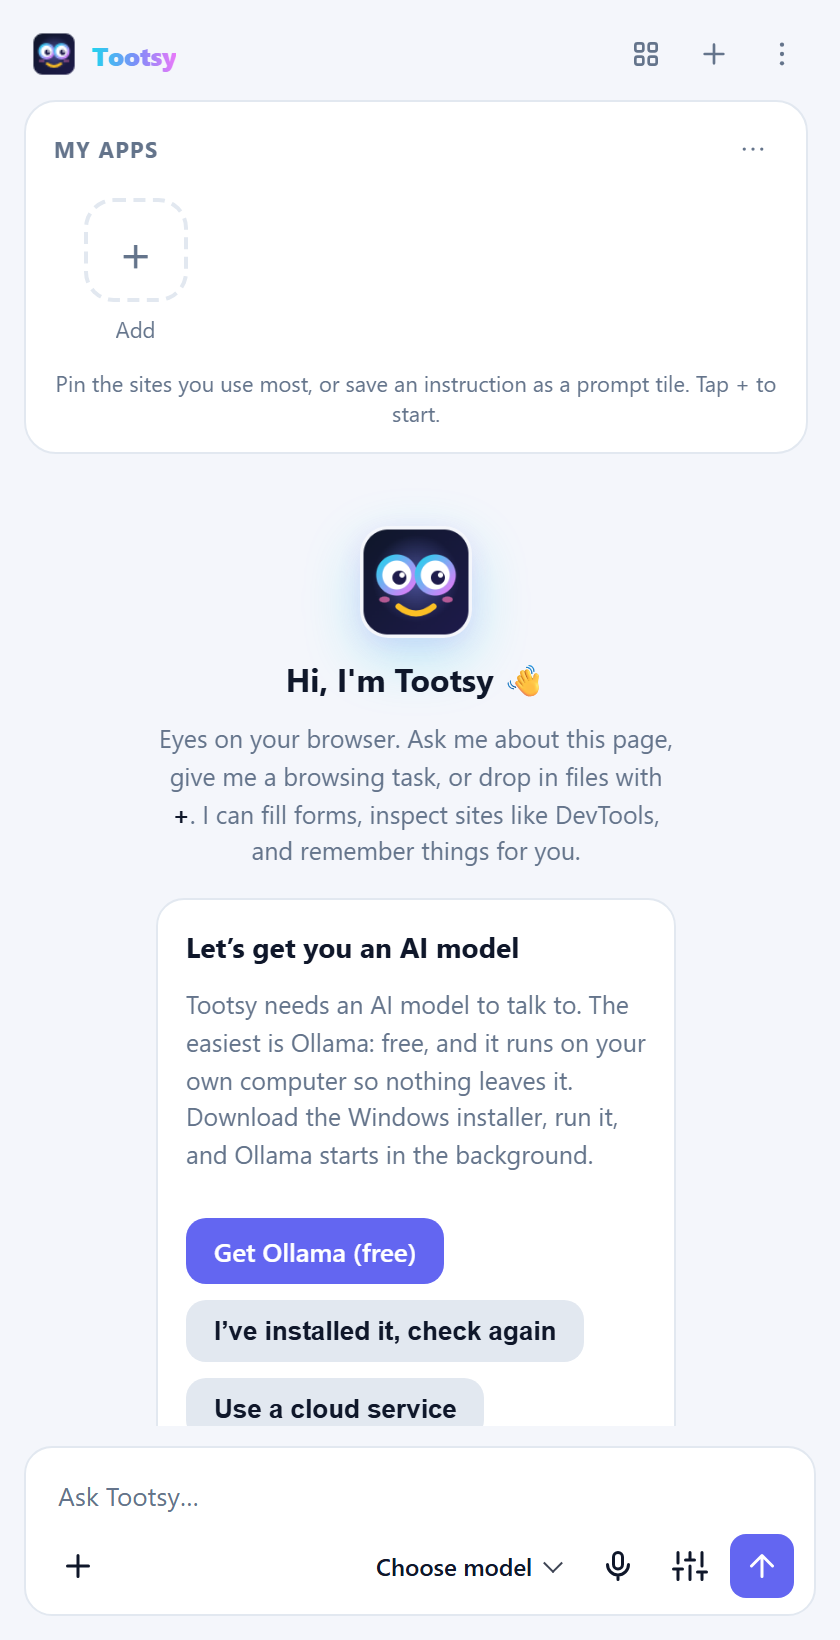
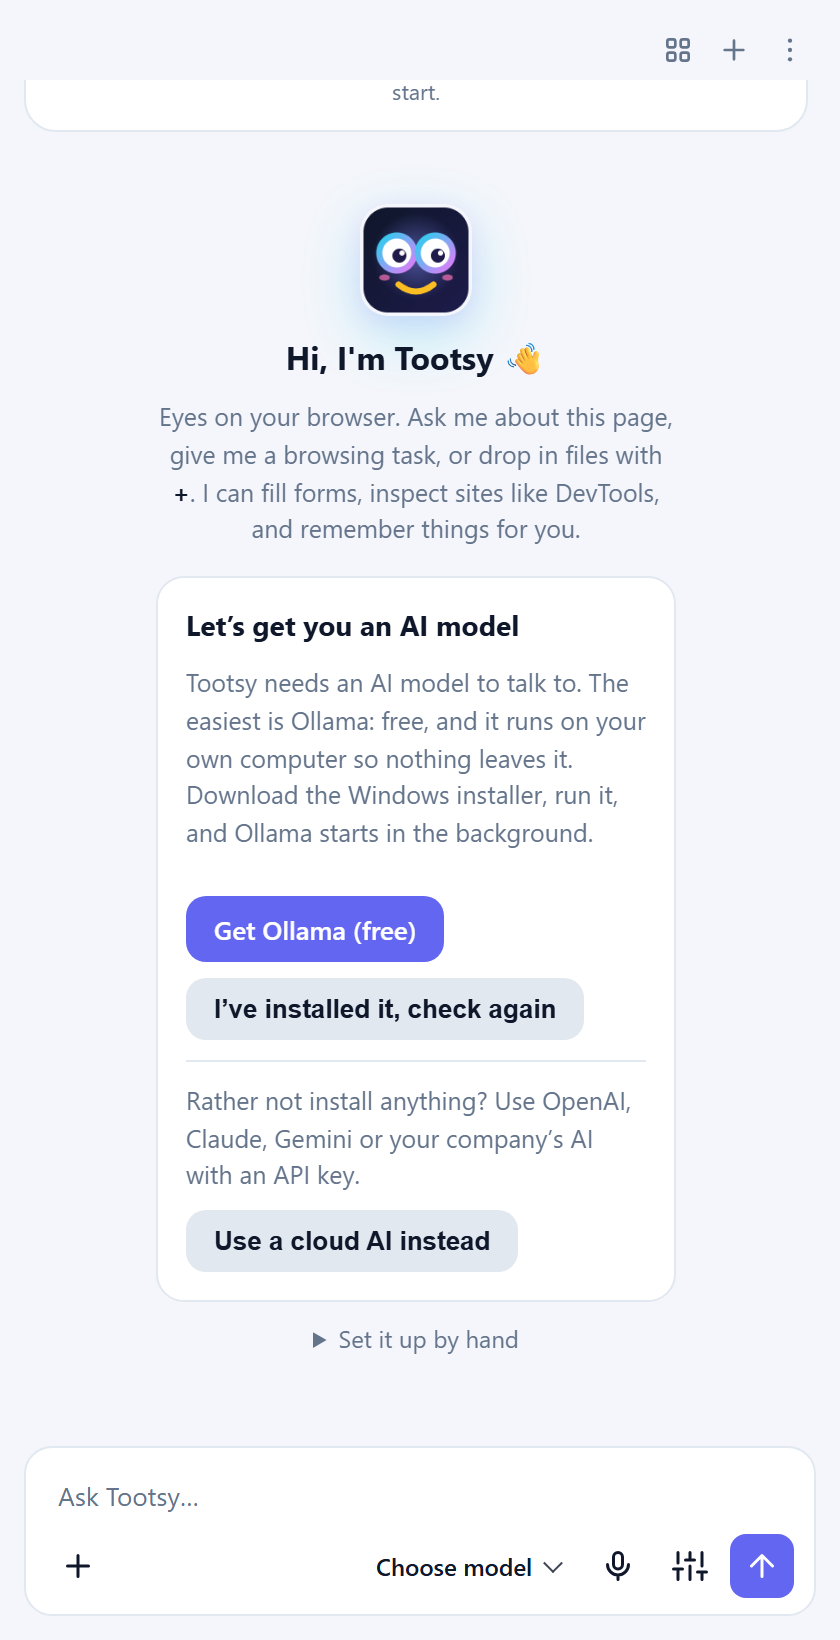
User guide: guided cloud AI setup

diff --git a/readme.md b/readme.md
@@ -104,7 +104,7 @@ Tootsy works with any model that supports *tool calling*. That's how it reads pa
 The first time you open Tootsy, it looks for an AI model on your computer and offers the next step:
 
 <p align="center">
-  <img src="images/setup-helper.png" alt="First-run helper: Let's get you an AI model, with Get Ollama, check again and cloud buttons" width="280">
+  <img src="images/setup-helper.png" alt="First-run helper: Let's get you an AI model, with Get Ollama, check again and Use a cloud AI instead" width="280">
   &nbsp;
   <img src="images/setup-helper-ready.png" alt="First-run helper: Ollama is running, with a Use gemma4:e4b button" width="280">
 </p>
@@ -112,9 +112,42 @@ The first time you open Tootsy, it looks for an AI model on your computer and of
 - **Nothing installed yet:** click **Get Ollama (free)**, install it, then **I've installed it, check again**.
 - **Ollama is running but has no models:** click **Download gemma4:e4b**. A progress bar shows the download; when it finishes, Tootsy is set up.
 - **Ollama or LM Studio is running with a model:** click **Use …** and you're done.
-- **Prefer a cloud service?** Click **Use a cloud service** and follow the steps below.
+- **Rather not install anything?** Click **Use a cloud AI instead**. See [Use a cloud AI](#use-a-cloud-ai) below.
 
-To set it up by hand instead (or to use a paid service):
+#### Use a cloud AI
+
+Tootsy walks you through it in the same card, without opening settings:
+
+1. **Pick a service:** OpenAI, Anthropic (Claude), Google Gemini, or **Other service** (OpenRouter, Groq or your company's AI server).
+2. **Get an API key:** the **Get a … key ↗** button opens that service's key page. Sign in, choose *Create key* and copy it. OpenAI and Anthropic bill per use, so add a little credit first; Google Gemini has a free tier.
+3. **Paste the key** and click **Connect**. Paste the key you copied; extra spaces, quotes or line breaks are removed for you. If it's from a different service than the one you picked, Tootsy notices and switches.
+
+Tootsy checks the key, picks a good model for browsing (Claude Sonnet, a GPT mini model or Gemini Flash) and says **✓ Connected**. You can change the model any time from the picker under the message box. It also offers to turn on [privacy masking](#210-stay-in-control), since pages you ask about now go to that service.
+
+<p align="center">
+  <img src="images/cloud-setup-choose.png" alt="Connect a cloud AI: cards for OpenAI, Anthropic, Google Gemini and Other service" width="200">
+  &nbsp;
+  <img src="images/cloud-setup-key.png" alt="Step 1 Get an API key with a Get an Anthropic key button; step 2 Paste the key here, and Connect" width="200">
+  &nbsp;
+  <img src="images/cloud-setup-ready.png" alt="Connected to Anthropic, using claude-sonnet-5-5, with an offer to turn on privacy masking and a Start chatting button" width="200">
+</p>
+
+If something goes wrong, the card says what to do in plain words:
+
+| You see | What to do |
+|---|---|
+| *didn't accept that key* | Copy the key again from the key page (the whole key) and paste it. The card says what that service's keys start with. |
+| *no credit left or reached its limit* | Add credit on the service's billing page (the card links to it), then **Connect** again. |
+| *Couldn't reach …* | Check your internet connection. At work, ask IT to allow that address. |
+| *Your organization only allows these AI servers* | Your company limits which AI services Tootsy may use. Pick one of those, or ask IT. |
+
+<p align="center"><img src="images/cloud-setup-error.png" alt="A wrong key: the card explains the key wasn't accepted and links to the key page" width="200"></p>
+
+Your key is stored only in this browser and sent only to the service it belongs to. By default it's left out of backups (see [Security hardening](#2101-security-hardening)).
+
+#### Set it up by hand
+
+To set it up by hand instead (for example LM Studio, or a server with special settings):
 
 1. Click **Open settings** (under **Set it up by hand**). You can also open settings any time with the sliders icon next to the send button.
 2. Under **LLM configuration**, fill in **Base URL endpoint**:
